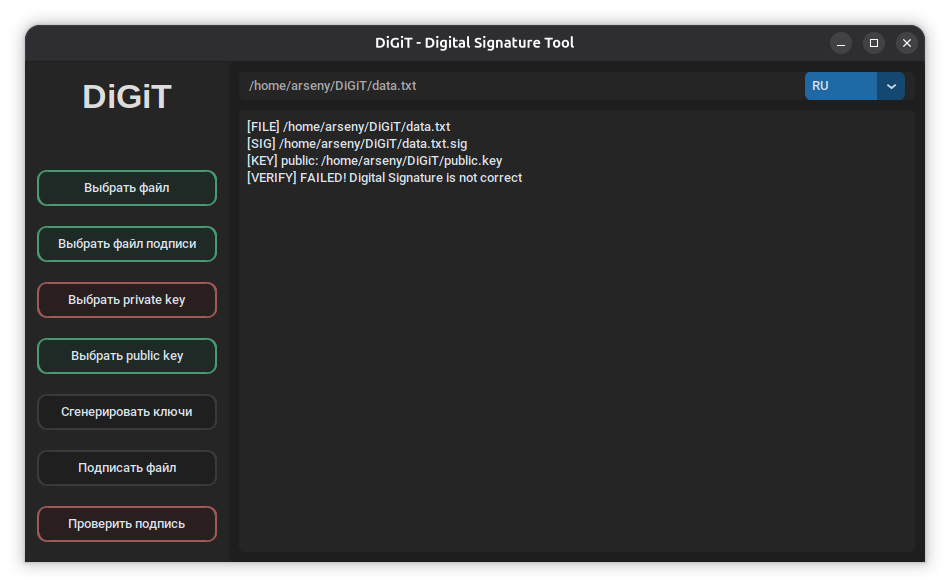
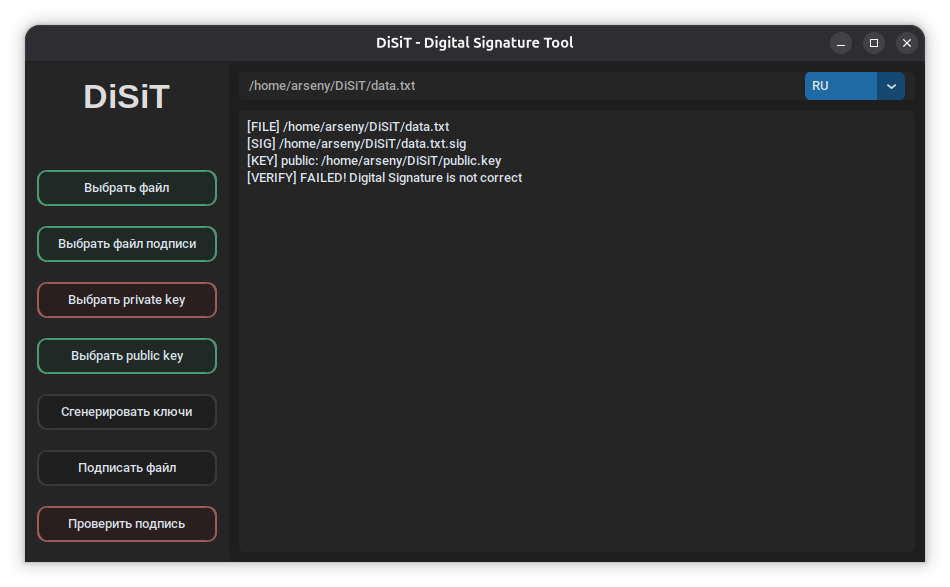
FIX

diff --git a/gui/gui.py b/gui/gui.py
@@ -8,7 +8,7 @@ class App(ctk.CTk):
     def __init__(self):
         super().__init__()
 
-        self.title("DiGiT - Digital Signature Tool")
+        self.title("DiSiT - Digital Signature Tool")
         self.geometry("900x500")
         self.minsize(800, 450)
 
@@ -67,7 +67,7 @@ class App(ctk.CTk):
         # ===== TOP TEXT =====
         self.sidebar_title = ctk.CTkLabel(
             self.sidebar,
-            text="DiGiT",
+            text="DiSiT",
             font=("Arial", 34, "bold"),
             text_color="#dddddd"
         )

diff --git a/README.md b/README.md
@@ -1,4 +1,4 @@
-# DiGiT
+# DiSiT
 
 [![Latest release](https://img.shields.io/github/v/release/BlondInchIk/DiSiT)](https://github.com/BlondInchIk/DiSiT/releases/latest)
 [![License: MIT](https://img.shields.io/github/license/BlondInchIk/DiSiT)](LICENSE)